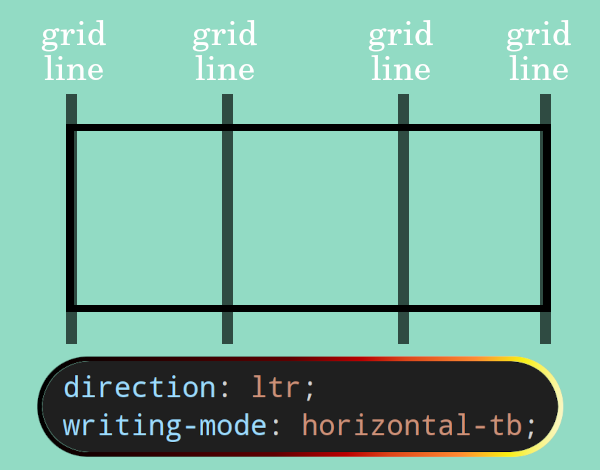
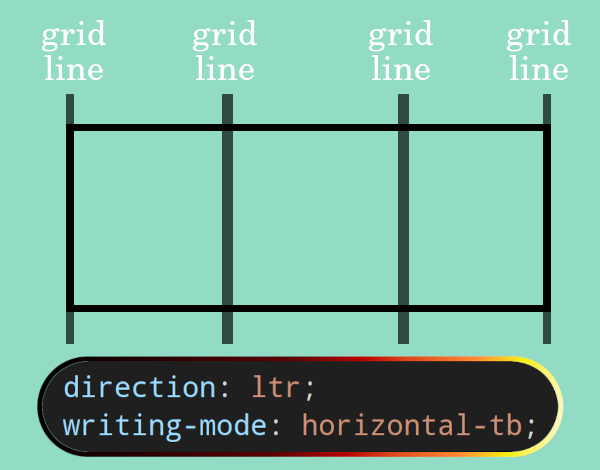
chore: shave the pictures and add missing image

Changed region(s): [[0.9, 0.2085, 0.93, 0.7149], [0.12, 0.2085, 0.15, 0.7149]]

diff --git a/21-grid-box/README.md b/21-grid-box/README.md
@@ -37,6 +37,8 @@
 
 - Now if we put together columns and rows we'll end up having what's called grid cell. It is the intersection of 4 lines.
 
+  ![Grid cell](./cell.png)
+
 > [!TIP]
 >
 > The items themselves **DO NOT** form the layout. But rather grid lines form the layout.
